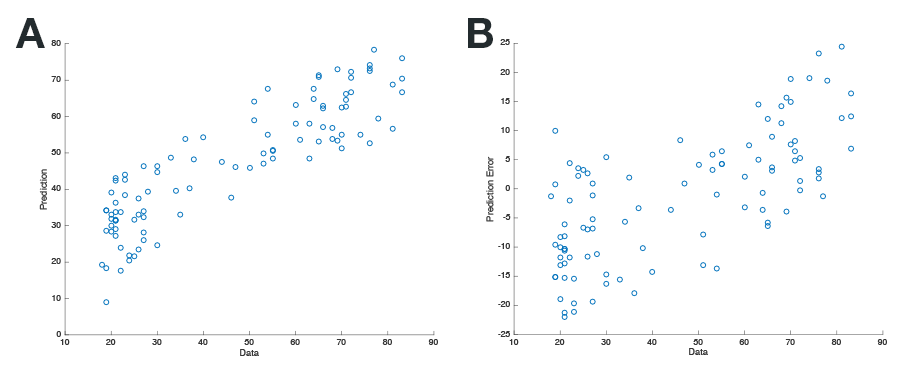
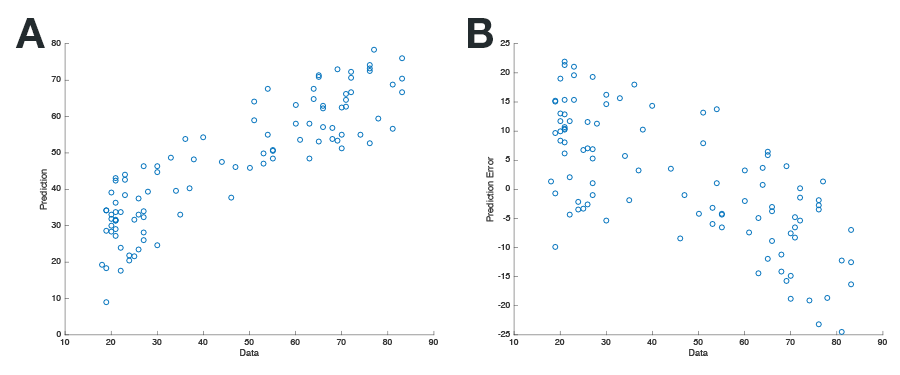
Changed how prediction error is calculated in output figure

diff --git a/demo/demo.m b/demo/demo.m
@@ -61,4 +61,4 @@ te_perf = prism_eval(te_y,fit)
 % Fig A. Data vs. Prediction
 figure; scatter(te_y,fit.pred); xlabel('Data'); ylabel('Prediction');
 % Fig B. Data vs. Prediction Error
-figure; scatter(te_y,te_y-fit.pred); xlabel('Data'); ylabel('Prediction Error');
+figure; scatter(te_y,fit.pred-te_y); xlabel('Data'); ylabel('Prediction Error');

diff --git a/README.md b/README.md
@@ -84,7 +84,7 @@ te_perf = prism_eval(te_y,fit)
 % Fig A. Data vs. Prediction
 figure; scatter(te_y,fit.pred); xlabel('Data'); ylabel('Prediction');
 % Fig B. Data vs. Prediction Error
-figure; scatter(te_y,te_y-fit.pred); xlabel('Data'); ylabel('Prediction Error');
+figure; scatter(te_y,fit.pred-te_y); xlabel('Data'); ylabel('Prediction Error');
 
 ```
 
